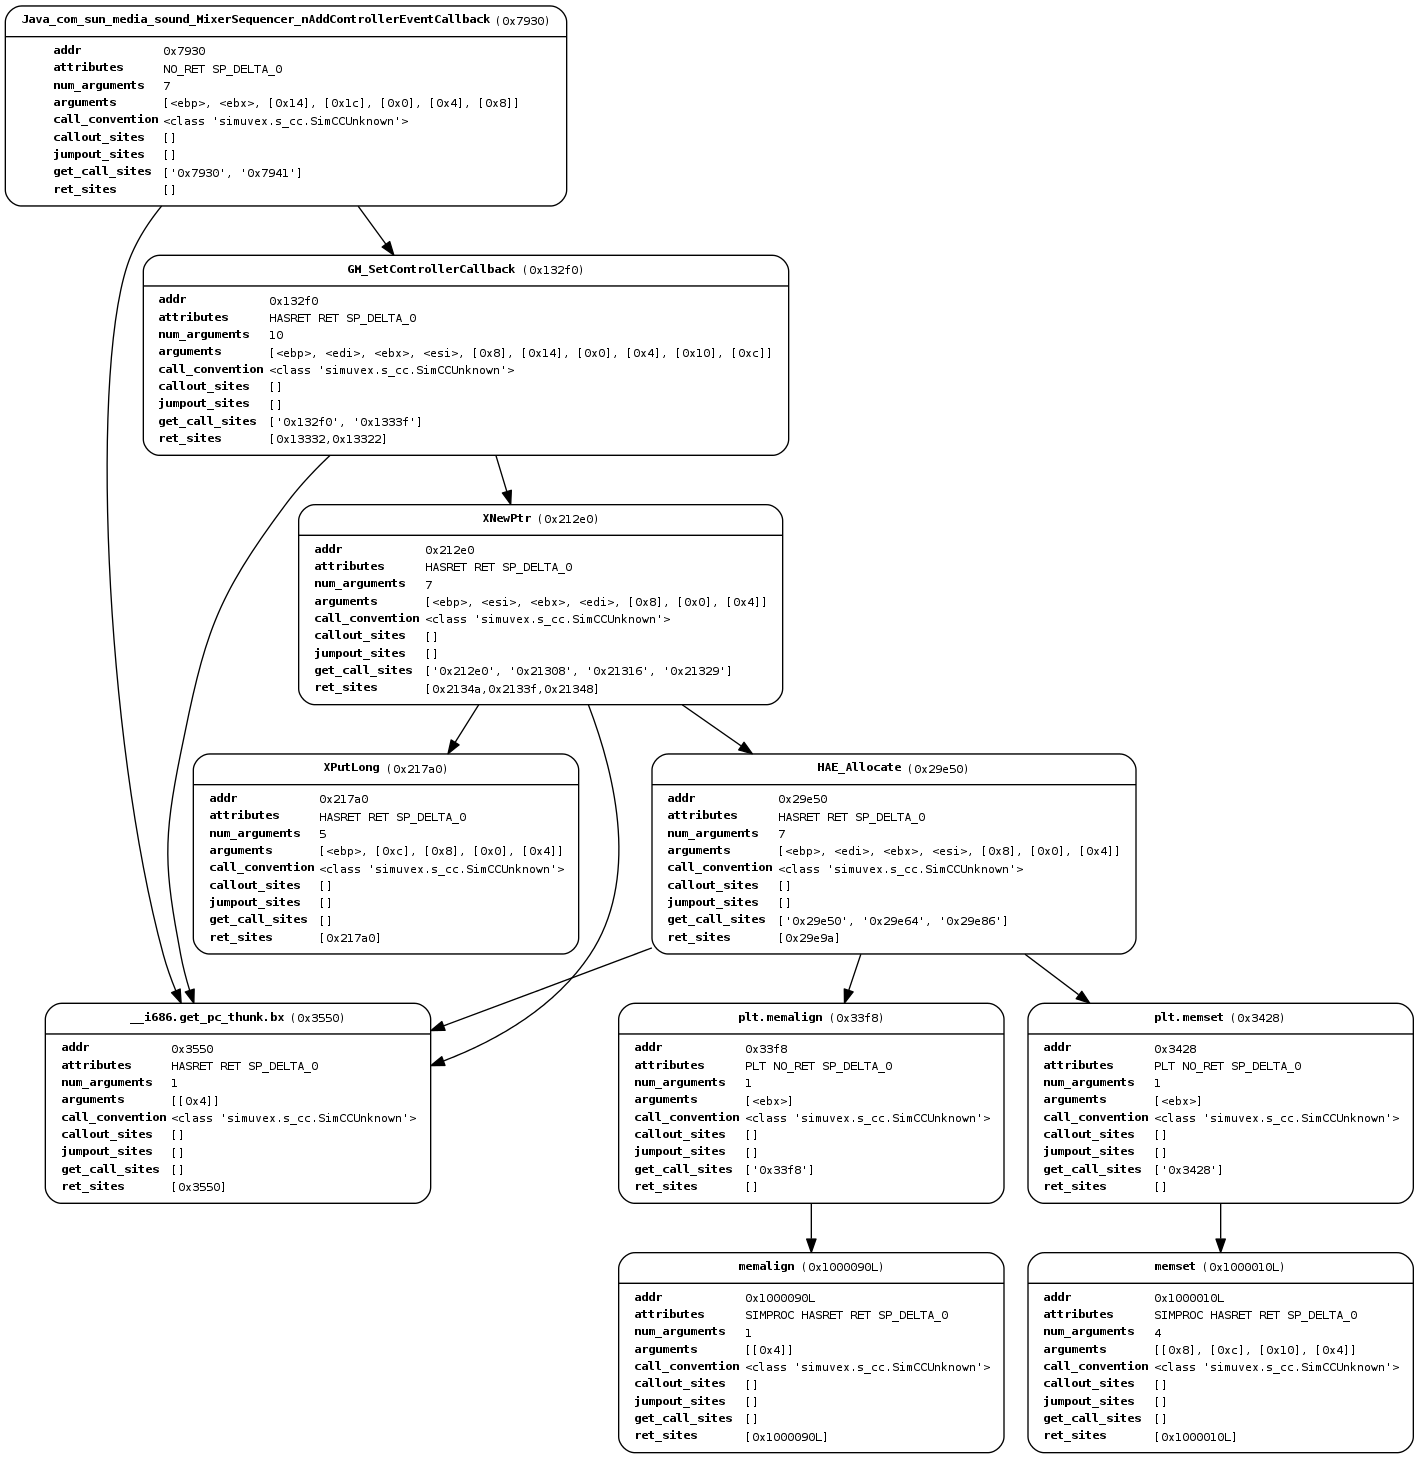
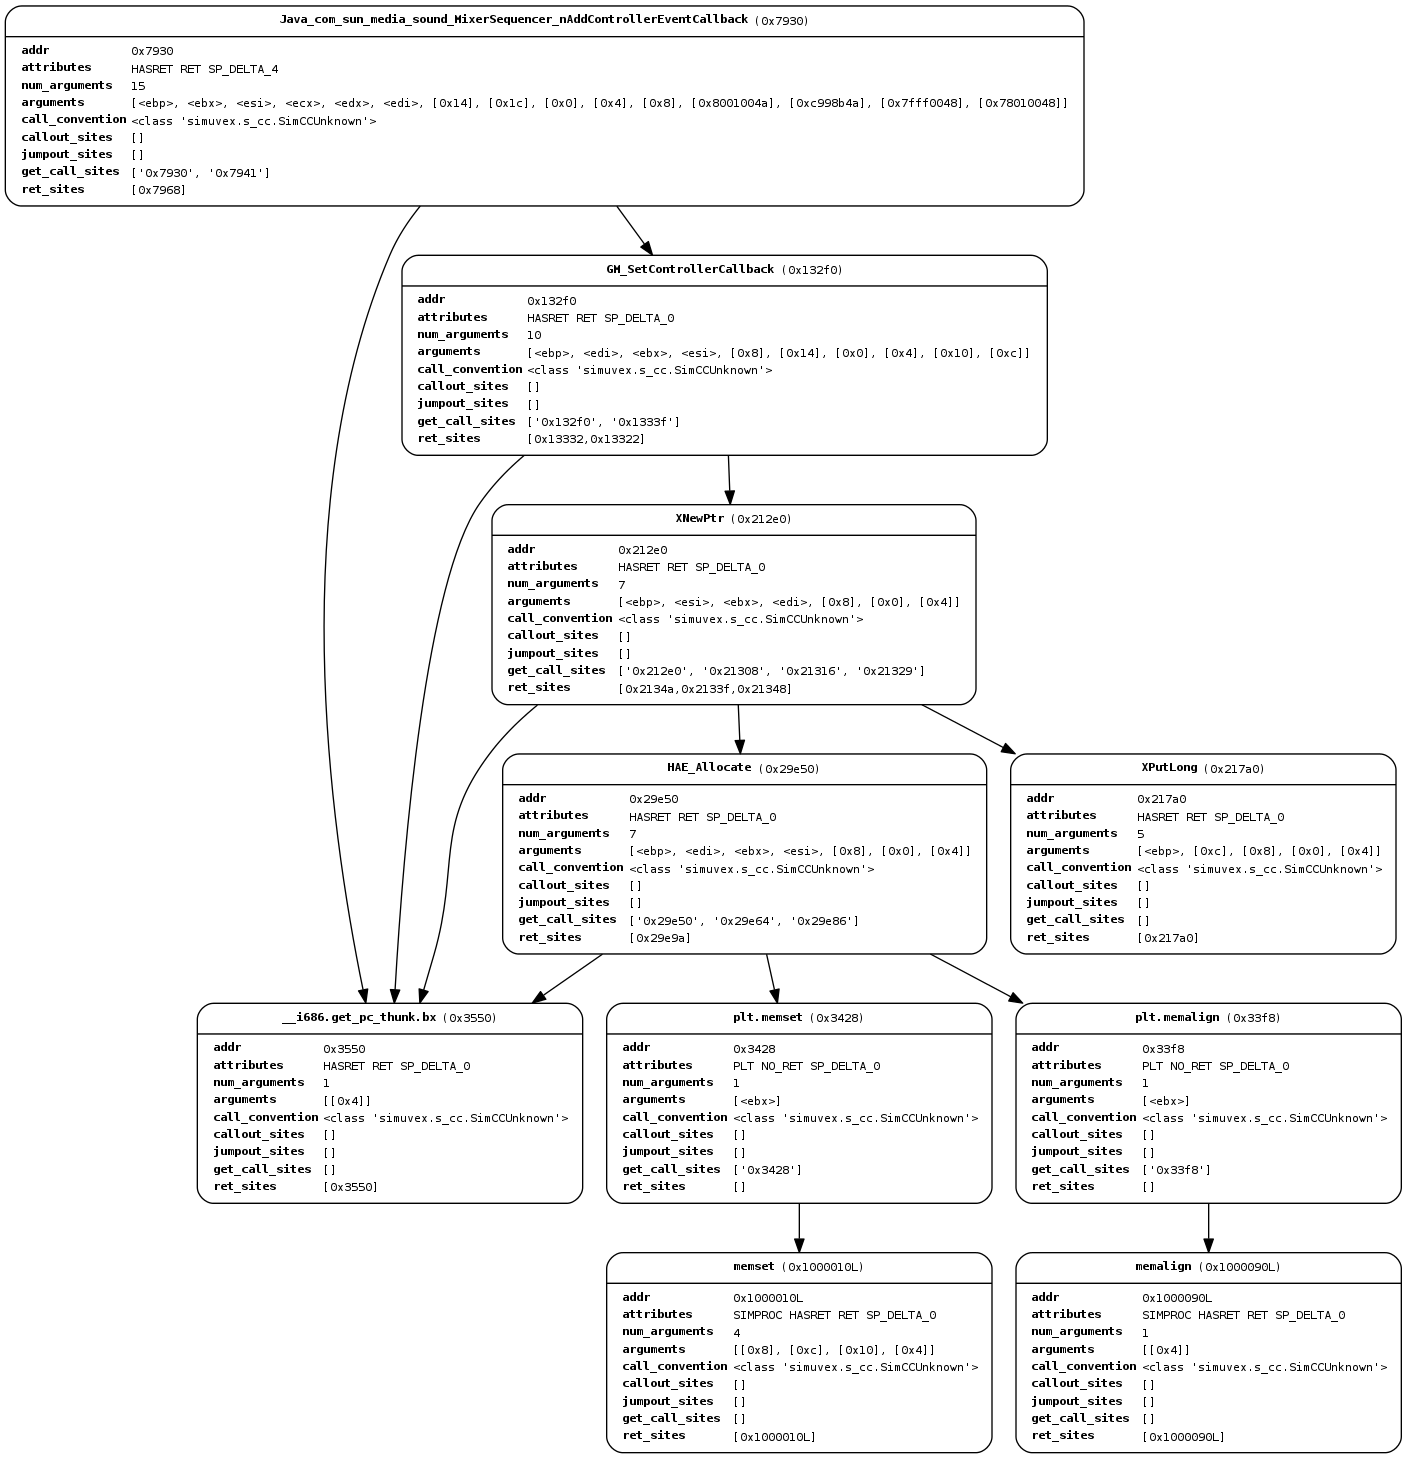
consolidate callgraph example

diff --git a/examples/plot_cg/plot_cg_example.py b/examples/plot_cg/plot_cg_example.py
@@ -7,7 +7,7 @@ from angrutils import *
 def analyze(b, addr, name=None):
     start_state = b.factory.blank_state(addr=addr)
     start_state.stack_push(0x0)
-    cfg = b.analyses.CFGAccurate(fail_fast=True, starts=[addr], initial_state=start_state, context_sensitivity_level=2, keep_state=True, call_depth=100, normalize=True)
+    cfg = b.analyses.CFGAccurate(fail_fast=False, starts=[addr], context_sensitivity_level=1, enable_function_hints=False, keep_state=True, enable_advanced_backward_slicing=False, enable_symbolic_back_traversal=False,normalize=True)
 
     plot_cg(b.kb, "%s_callgraph" % name, format="png")
     plot_cg(b.kb, "%s_callgraph_verbose" % name, format="png", verbose=True)
